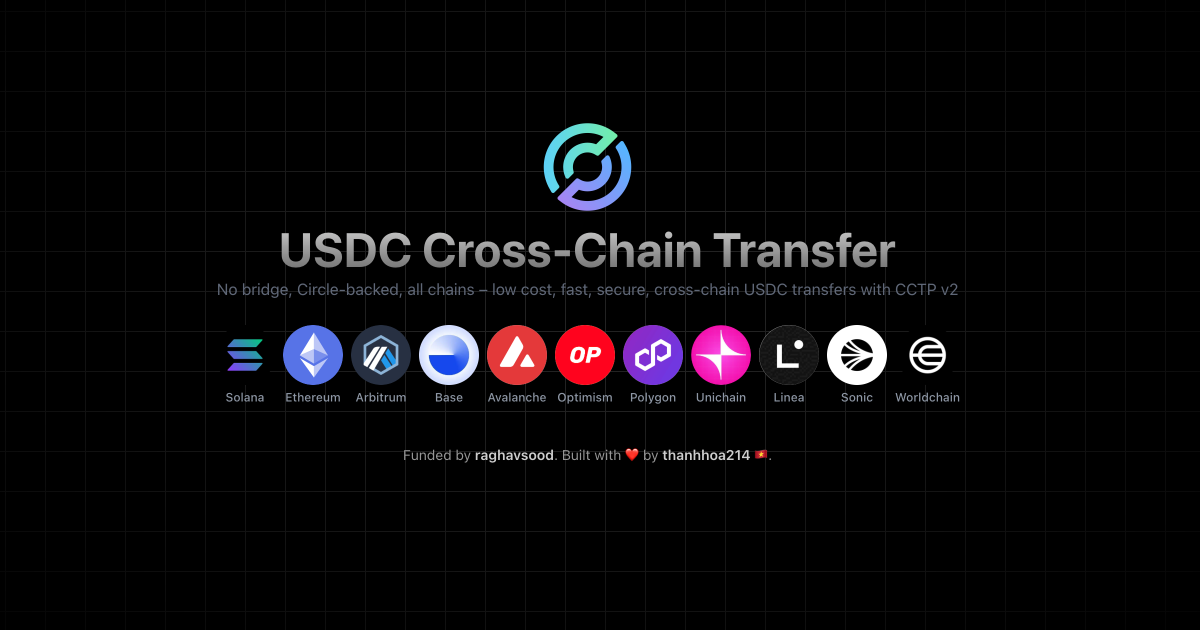
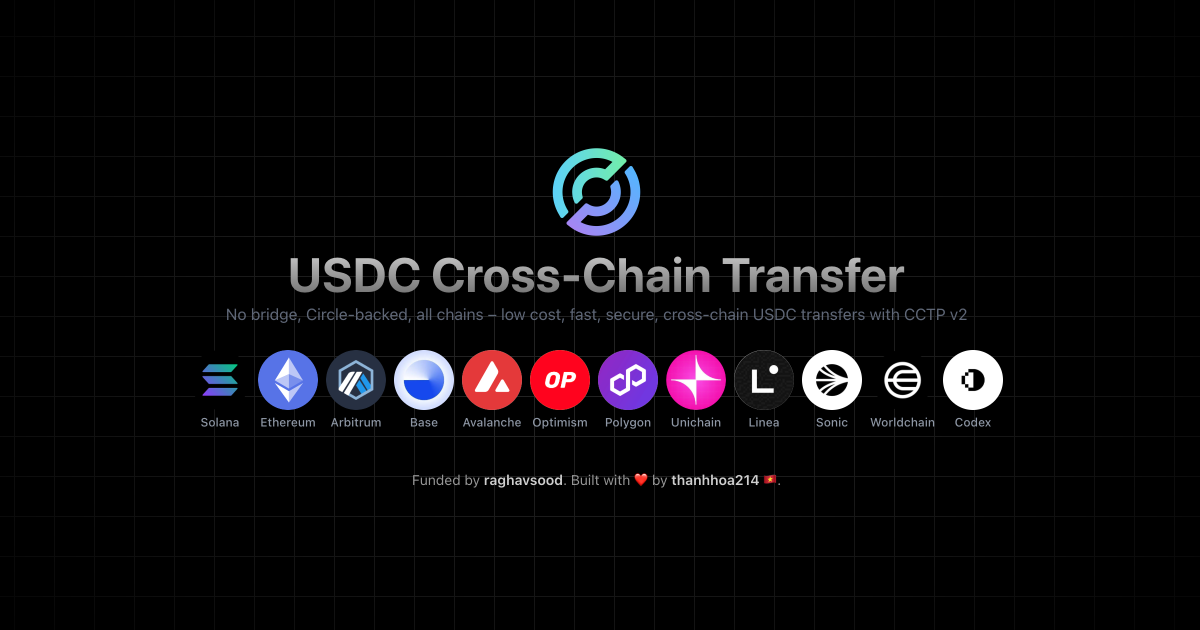
feat: edit SEO image

Changed region(s): [[0.1542, 0.181, 0.8325, 0.7841], [0.4625, 0.1206, 0.5242, 0.1508]]

diff --git a/src/app/layout.tsx b/src/app/layout.tsx
@@ -5,6 +5,7 @@ import { Toaster } from "@/components/ui/sonner";
 import React from "react";
 import Providers from "./Providers";
 import { deployedUrl } from "@/lib/constants";
+import { networkAdapters } from "@/lib/cctp/networks";
 
 const funnelSans = Funnel_Sans({
   variable: "--font-sans",
@@ -19,9 +20,8 @@ const funnelDisplay = Funnel_Display({
 
 export const metadata: Metadata = {
   title:
-    "Cross-Chain USDC Transfers | CCTP v2 on Ethereum, Solana, Arbitrum, Base, Polygon, Avalanche & More",
-  description:
-    "Seamless USDC transfers across top blockchains with CCTP v2. Instantly bridge between Ethereum, Solana, Avalanche, Arbitrum, Base, Polygon, Linea, and more. Secure, fast, and low-cost cross-chain settlements.",
+    "Cross-Chain USDC Transfers | CCTP v2 on Ethereum, Solana, Arbitrum, Base & More",
+  description: `Seamless USDC transfers across top blockchains with CCTP v2. Secure, fast, and low-cost cross-chain settlements. Instantly bridge between ${networkAdapters.map((adapter) => adapter.name).join(", ")}, and more. `,
   metadataBase: new URL(deployedUrl),
 };
 
